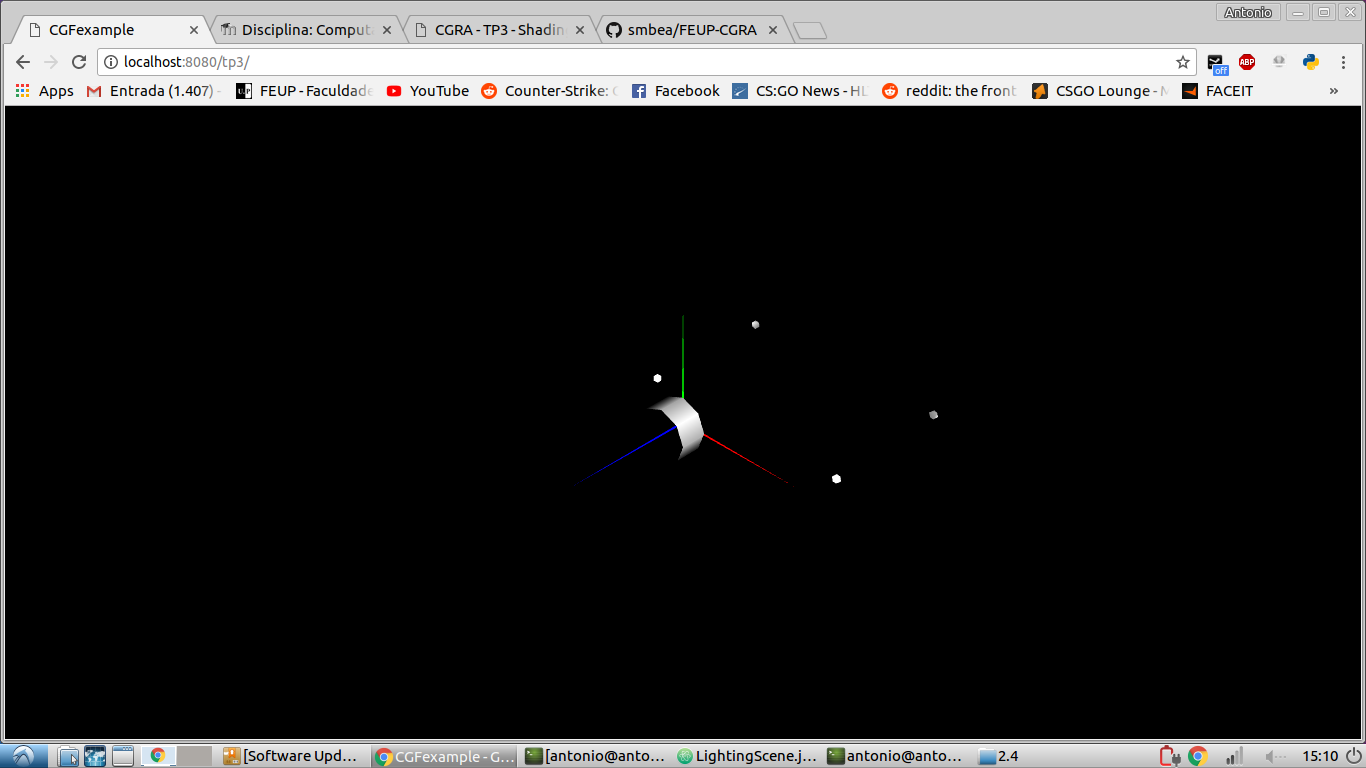
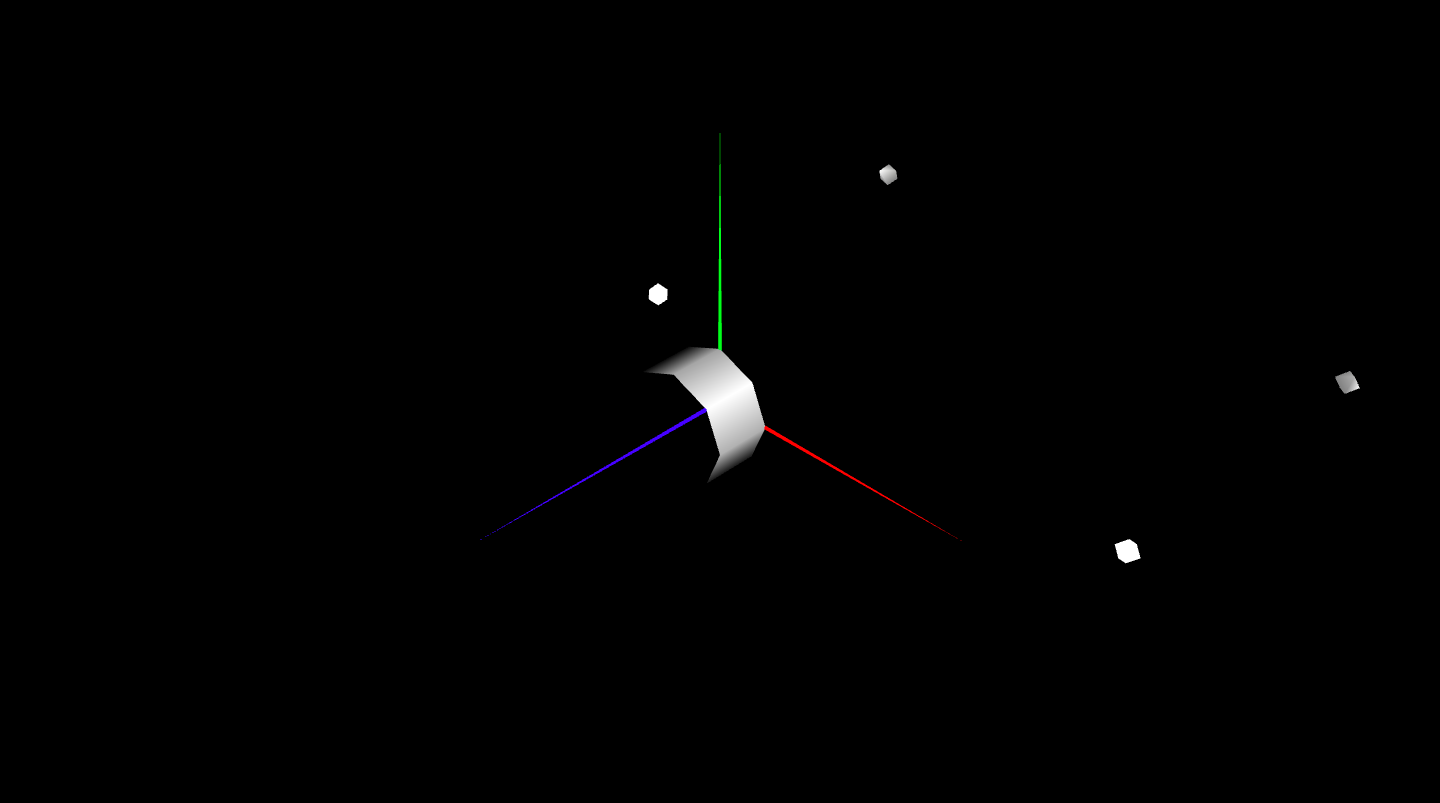
Finished exercise 2.

diff --git a/tp3/2.4/MyCylinder.js b/tp3/2.4/MyCylinder.js
@@ -14,7 +14,7 @@ class MyCylinder extends CGFobject
     this.initBuffers();
   }
 
-	initBuffers()
+  initBuffers()
 	{
 		this.vertices = [];
     this.indices = [];
@@ -25,17 +25,25 @@ class MyCylinder extends CGFobject
      for(let i=0; i < this.slices; i++){
 
       this.vertices.push(Math.cos(ang *i),Math.sin(ang*i),j*1/this.stacks);
+      //this.vertices.push(Math.cos((i+1)*ang),Math.sin((i+1)*ang),j*1/this.stacks);
+
       this.normals.push(Math.cos(ang*i),Math.sin(ang*i),0);
+      //this.normals.push(Math.cos(ang*(i+1)),Math.sin(ang*(i+1)),0);
     }
   }
 
   var nPontos = this.slices * this.stacks;
 
-  for(let i = 0; i < (nPontos -1); i++){
-      this.indices.push(i, i + 1, i + 1 + this.slices);
-      this.indices.push(i, i + 1 + this.slices, i + this.slices);
-
+  for(let i = 0; i < nPontos; i++){
+    if((i+1)%this.slices==0){
+      this.indices.push(i,i+1, i+this.slices);
+     this.indices.push(i,i+1-this.slices, i+1);
+   }
+   else {
+    this.indices.push(i, i + 1, i + 1 + this.slices);
+    this.indices.push(i, i + 1 + this.slices, i + this.slices);
   }
+}
 
 
 		this.primitiveType=this.scene.gl.TRIANGLES;

diff --git a/tp3/MyCylinder.js b/tp3/MyCylinder.js
@@ -14,7 +14,7 @@ class MyCylinder extends CGFobject
     this.initBuffers();
   }
 
-	initBuffers()
+  initBuffers()
 	{
 		this.vertices = [];
     this.indices = [];
@@ -25,17 +25,25 @@ class MyCylinder extends CGFobject
      for(let i=0; i < this.slices; i++){
 
       this.vertices.push(Math.cos(ang *i),Math.sin(ang*i),j*1/this.stacks);
+      //this.vertices.push(Math.cos((i+1)*ang),Math.sin((i+1)*ang),j*1/this.stacks);
+
       this.normals.push(Math.cos(ang*i),Math.sin(ang*i),0);
+      //this.normals.push(Math.cos(ang*(i+1)),Math.sin(ang*(i+1)),0);
     }
   }
 
   var nPontos = this.slices * this.stacks;
 
-  for(let i = 0; i < (nPontos -1); i++){
-      this.indices.push(i, i + 1, i + 1 + this.slices);
-      this.indices.push(i, i + 1 + this.slices, i + this.slices);
-
+  for(let i = 0; i < nPontos; i++){
+    if((i+1)%this.slices==0){
+      this.indices.push(i,i+1, i+this.slices);
+     this.indices.push(i,i+1-this.slices, i+1);
+   }
+   else {
+    this.indices.push(i, i + 1, i + 1 + this.slices);
+    this.indices.push(i, i + 1 + this.slices, i + this.slices);
   }
+}
 
 
 		this.primitiveType=this.scene.gl.TRIANGLES;
